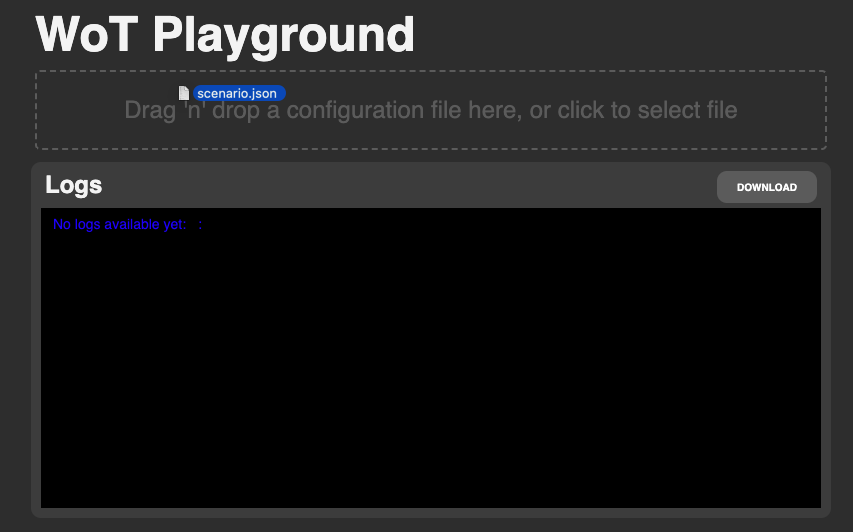
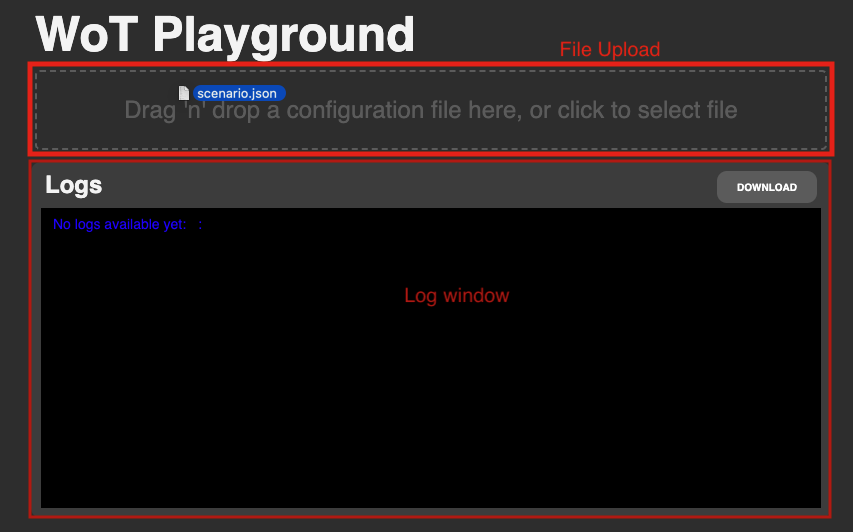
add user manual screenshots 4

Changed region(s): [[0.0305, 0.0602, 1.0, 0.9925], [0.4572, 0.5414, 0.6096, 0.5714]]

diff --git a/README.md b/README.md
@@ -11,10 +11,18 @@ https://tu-berlin.zoom.us/j/68314260453?pwd=bFZkV3VDU0pJd0NXYXVCQlNBNlNGUT09
 - [Install and Run](#install-and-run)
 - [User Manual](#user-manual)
   - [Uploading a Configuration file](#uploading-a-configuration-file)
+    - [Configuration file](#configuration-file)
+    - [Upload the Configuration file](#upload-the-file)
   - [Getting and updating a property of a Thing](#getting-and-updating-a-property)
   - [Calling an action of a Thing](#calling-an-action-of-a-thing)
+    - [Calling actions without parameters](#calling-actions-without-parameters)
+    - [Calling actions with URI parameters](#calling-actions-with-uri-parameters)
   - [Interaction between Things](#interaction-between-things)
+    - [Properties and actions](#get--update-properties-and-call-actions)
+    - [Subscribing to events](#subscribing-to-events)
   - [Executing a playbook](#executing-a-playbook)
+    - [Playbook file](#playbook-file)
+    - [Uploading and executing a playbook file](#uploading-and-executing-the-playbook-file)
   - [Downloading logs](#downloading-logs)
   - [Shutdown Things](#shutdown-things)
 - [Local Development](#local-development)
@@ -113,6 +121,9 @@ The Thing representation for the selected device will open up and illustrate all
 Values of properties are automatically retrieved and can be changed by clicking on a selected property field and by typing in the new value. In order to submit the change the user needs to press enter. After pressing enter the Thing representation of the device will close and the logs will display the changes. 
 In the logs one can see all the requests which where triggered. This means by clicking on a Thing representation, property logs will be added automatically. In case you want to reduce the number of logs, we suggest to use a playbook, as described below. 
 
+![thingRepresentationLocal](./examples/applicationScreenshots/thingRepresentationLocal.png)
+
+
 ### Calling an action of a Thing
 When calling actions there are two types of actions, which are supported by our application: actions without parameters and actions with parameters in the url. Actions with paramerts in the body are currently not supported.
 #### Calling actions without parameters
@@ -124,7 +135,7 @@ An example parameterized action call based on the examples/scenario.json works l
 ```
 makeDrink?drinkId=espresso&size=s&quantity=3
 ```
-
+![thingRepresentationRemote](./examples/applicationScreenshots/thingRepresentationRemote.png)
 
 ### Interaction between Things
 In addition to interaction between the controller and Things, our application also supports interaction between devices.
@@ -180,7 +191,7 @@ For uploading and executing use the file upload. After uploading each of the ste
 In case one wants to download the logs before shutting down or simulating another scenario, one can download the logs as a text file by clicking on the **"Download"** button on the top right of the log window.
 
 ### Shutdown Things
-If one wants to simulate another scenario or just shut down the application, one has to click the **"Power"** button on the right next to the file upload. After clicking the button all the Thing containers and the Thing image will be stopped and deleted.
+If one wants to simulate another scenario or just shut down the application, one has to click the **Shutdown** button on the right next to the file upload. After clicking the button all the Thing containers and the Thing image will be stopped and deleted.
 After the shutdown one can either upload another Configuration file or stop the whole application by stopping the docker compose setup.
 
 ## API Documentation
